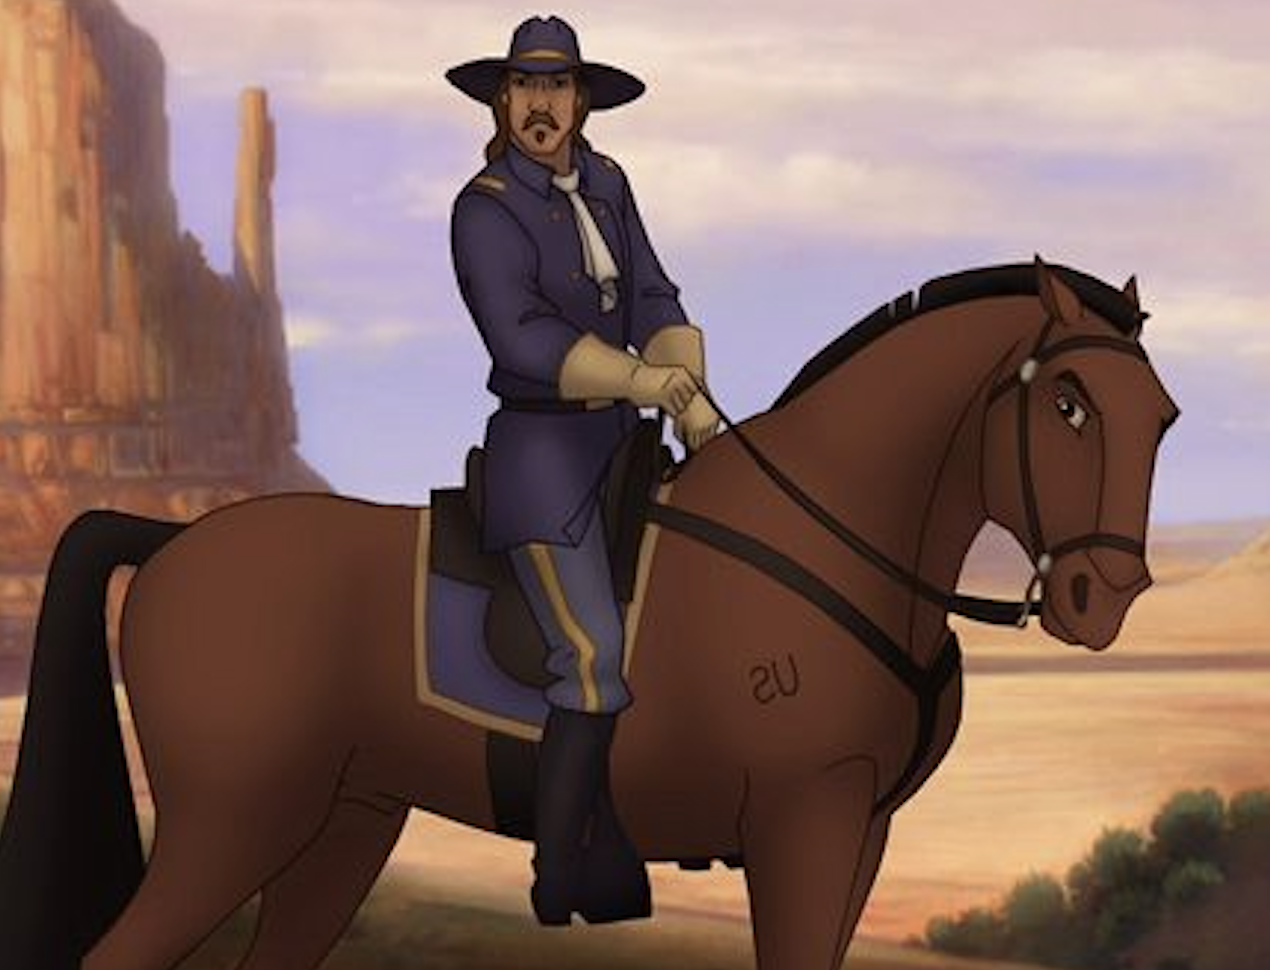
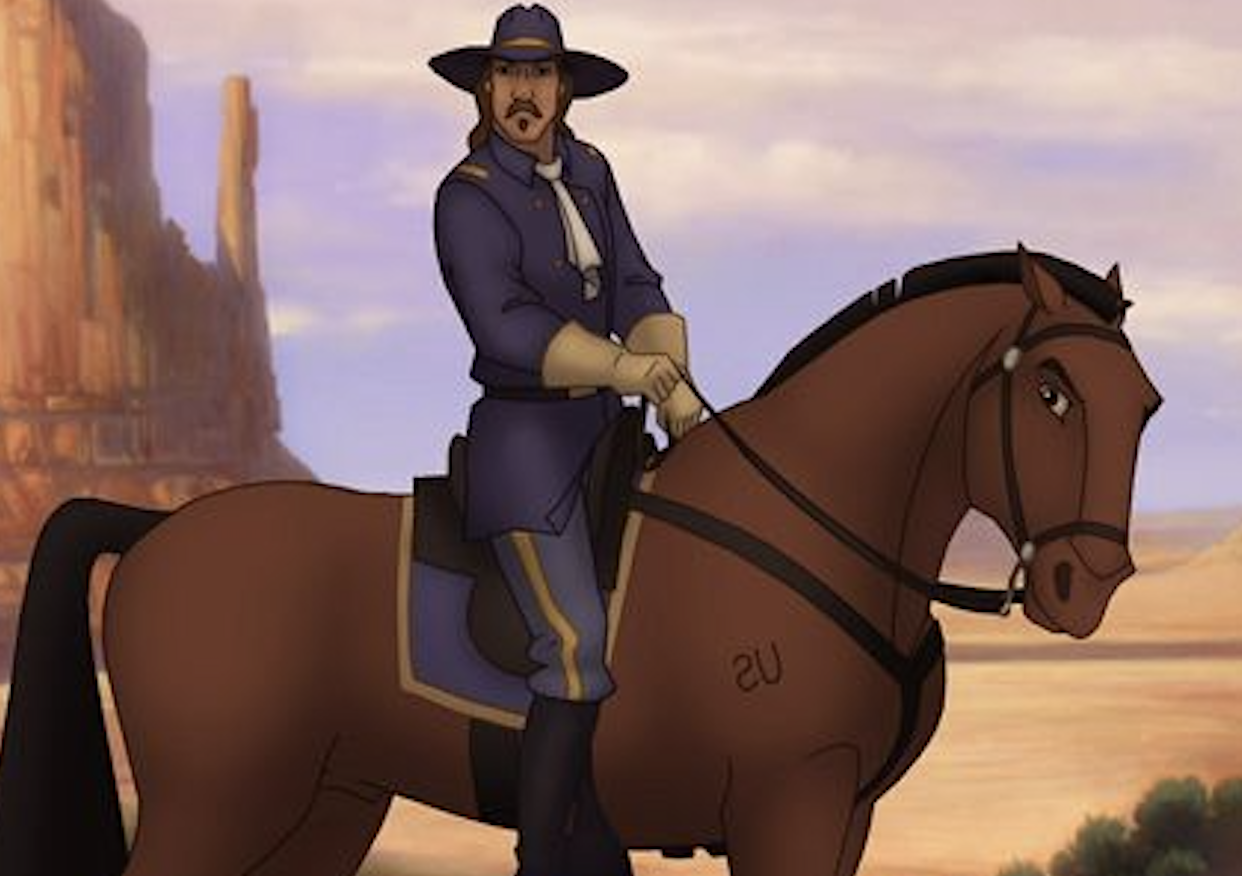
almost there

diff --git a/index.html b/index.html
@@ -51,7 +51,7 @@
         <div id="twosides-images">
             <section class="left-image">
                 <figure>
-                    <img src="images/spirit-character.png" alt="spirit" />
+                    <img src="images/spirit-cropped.png" alt="spirit" />
                     <figcaption>Spirit</figcaption>
                 </figure>
                 <figure>
